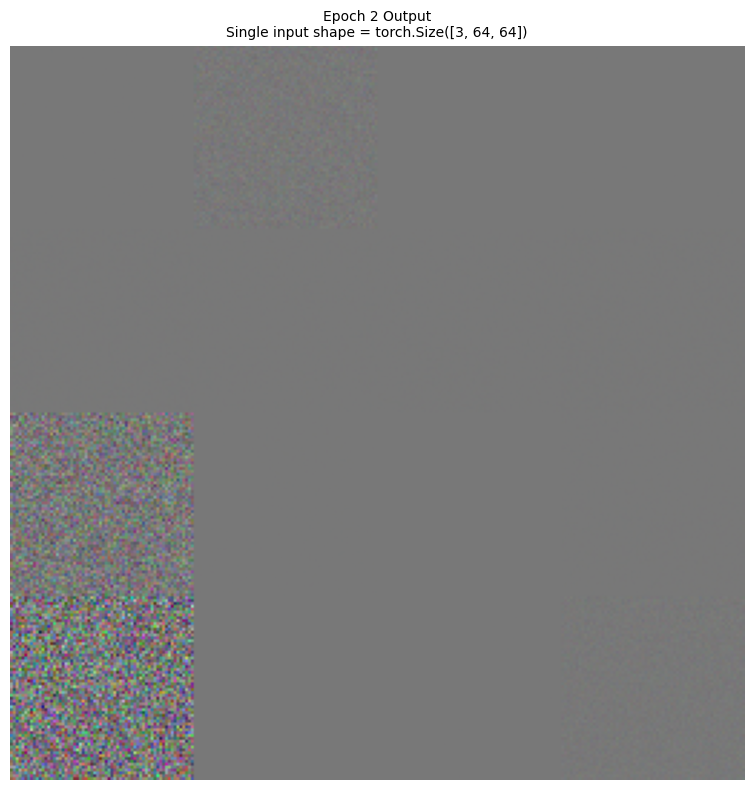
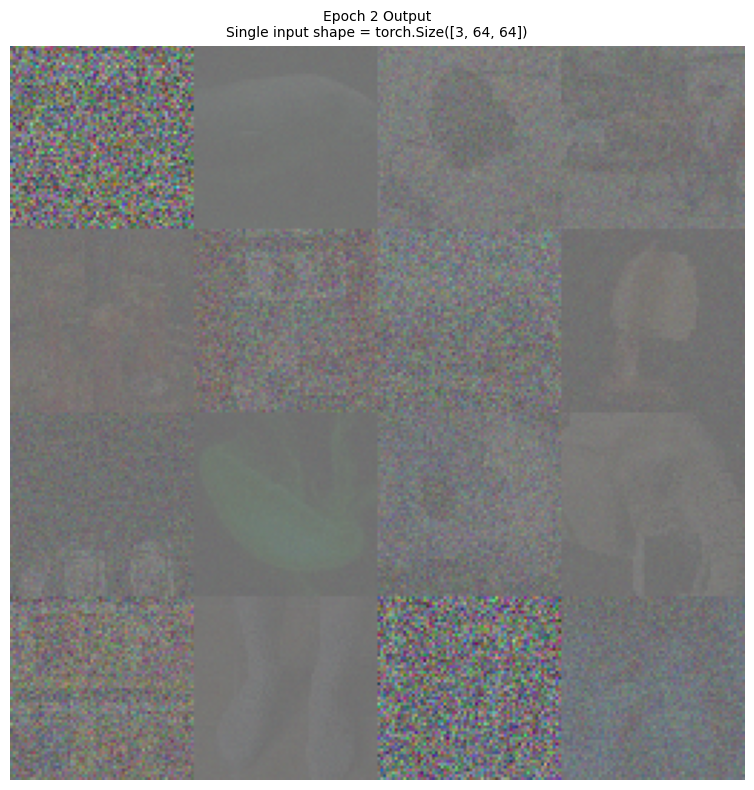
Modify DiT Training

diff --git a/dit.py b/dit.py
@@ -7,7 +7,7 @@ class Attention(nn.Module):
     def __init__(
         self,
         heads: int = 8,
-        hidden_dim: int = 1024,
+        hidden_dim: int = 512,
     ):
         super().__init__()
         self.heads = heads
@@ -35,7 +35,7 @@ class Attention(nn.Module):
 class MLP(nn.Module):
     def __init__(
         self,
-        hidden_dim: int = 1024,
+        hidden_dim: int = 512,
         intermediate_ratio: float = 3.0,
     ):
         super().__init__()
@@ -81,7 +81,6 @@ class Conditioner(nn.Module):
         return embedding
 
     def forward(self, label: torch.Tensor, timestep: torch.Tensor) -> torch.Tensor:
-        
         label = torch.where(torch.rand(label.shape, device=label.device) < self.condition_p, torch.tensor(self.num_classes, dtype=label.dtype, device=label.device), label)
         class_embedding = self.class_embedding(label)
         time_embedding = self.sinusodial_embedding(timestep)
@@ -91,7 +90,7 @@ class Conditioner(nn.Module):
 class Block(nn.Module):
     def __init__(
         self,
-        hidden_dim: int = 1024, 
+        hidden_dim: int = 512, 
         heads: int = 8,
         intermediate_ratio: float = 3.0,
     ):
@@ -110,8 +109,8 @@ class Block(nn.Module):
         rho_2 = scales[:,4*self.hidden_dim:5*self.hidden_dim]
         beta_2 = scales[:,5*self.hidden_dim:6*self.hidden_dim]
         residual = x
-        residual = self.attention(residual, alpha_1, rho_1, beta_1)
-        residual = self.mlp(residual, alpha_2, rho_2, beta_2)
+        residual = self.attention(residual, alpha_2, rho_2, beta_2)
+        residual = self.mlp(residual, alpha_1, rho_1, beta_1)
         return residual
 
 class AdaLN(nn.Module):
@@ -119,7 +118,7 @@ class AdaLN(nn.Module):
         self,
         embedding_dim: int = 256,
         hidden_dim: int = 1024,
-        intermediate_ratio: float = 3.0
+        intermediate_ratio: float = 2.0
     ):
         super().__init__()
         self.embedding_dim = embedding_dim
@@ -137,7 +136,7 @@ class DiT(nn.Module):
     def __init__(
         self,
         num_blocks: int = 12,
-        hidden_dim: int = 1024, 
+        hidden_dim: int = 512, 
         heads: int = 8,
         img_size: int = 64,
         patches: int = 4,
@@ -166,7 +165,8 @@ class DiT(nn.Module):
         self.patch_len = num_patches * num_patches
         self.pos_embeddings = nn.Embedding(self.patch_len, self.hidden_dim)
         self.post_norm = nn.LayerNorm(self.hidden_dim)
-        self.up_proj = nn.Linear(self.hidden_dim, 64 * 6)
+        self.post_linear = nn.Linear(self.hidden_dim, patches * patches * 6)
+        self.upsample = nn.ConvTranspose2d(6, 6, 4, 2, 1)
 
     
     def forward(self, z: torch.Tensor, label: torch.Tensor, t: torch.Tensor) -> torch.Tensor:
@@ -177,9 +177,12 @@ class DiT(nn.Module):
         for layer, embedding in zip(self.blocks, self.condition_blocks):
             scales = embedding(emb)
             hidden_states = layer(hidden_states, scales)
-        hidden_states = self.post_norm(hidden_states)
-        output = self.up_proj(hidden_states)
-        output = output.reshape((-1, 64, 64, 6))
-        noise = output[...,:3].transpose(1,-1)
-        sigma = output[...,3:].transpose(1,-1)
+        hidden_states = self.post_norm(hidden_states) 
+        hidden_states = self.post_linear(hidden_states) #B, 64, 1024 -> B, 64, 96
+        hidden_states = torch.reshape(hidden_states, (z.shape[0], 8, 8, 6, 6, 6))
+        hidden_states = hidden_states.permute(0, 1, 3, 2, 4, 5)
+        hidden_states  = hidden_states.reshape((-1, 6, 32, 32))
+        output = self.upsample(hidden_states)
+        noise = output[:,:3,...]
+        sigma = output[:,3:,...]
         return noise, sigma

diff --git a/train_dit.py b/train_dit.py
@@ -20,6 +20,7 @@ transform = transforms.Compose(
     [
         transforms.Resize(64),
         transforms.ToTensor(),
+        transforms.Normalize([0.5, 0.5, 0.5], [0.5, 0.5, 0.5])
     ]
 )
 
@@ -75,7 +76,7 @@ alpha_bar = alpha_bar.to(device)
 def noise(z: torch.Tensor, t: torch.Tensor) -> Tuple[torch.Tensor, torch.Tensor]:
     alpha = alpha_bar[t][:,None,None,None].to(z.device)
     noise = torch.randn_like(z).to(z.device)
-    noised_z = alpha * z + (1 - alpha) ** 0.5 * noise
+    noised_z = (alpha ** 0.5) * z + ((1 - alpha) ** 0.5) * noise
     return noise, noised_z
 
 
@@ -93,8 +94,20 @@ for epoch in range(job['epochs']):
         optimizer.zero_grad()
         if step % 100 == 0:
             print(f"Loss: {loss.item()}")
-            output = (noised_z[:16] - noise_pred[:16] * (1 - alpha_bar[t][:16,None,None,None]) ** 0.5 ) / alpha_bar[t][:16,None,None,None]
+            alpha = alpha_bar[t][:,None,None,None].to(device)
+            output = (noised_z[:16] - (1 - alpha[:16]) ** 0.5 * noise_pred[:16]) / (alpha[:16] ** 0.5)
             display_data(output, 4, f"Epoch {epoch+1} Output")
 
         if step == len(train_loader) - 1:
             print(f"Epoch {epoch+1}/{job['epochs']}")
+            if (epoch) % 20 == 0:
+                checkpoint_dir = 'checkpoints'
+                os.makedirs(checkpoint_dir, exist_ok=True)
+                checkpoint_path = os.path.join(checkpoint_dir, f'dit_epoch_{epoch+1}.pt')
+                torch.save({
+                    'epoch': epoch + 1,
+                    'model_state_dict': model.state_dict(),
+                    'optimizer_state_dict': optimizer.state_dict(),
+                    'loss': loss.item(),
+                }, checkpoint_path)
+                print(f"Saved checkpoint to {checkpoint_path}")

diff --git a/count_parameters.py b/count_parameters.py
@@ -1,0 +1,6 @@
+import torch
+from dit import DiT
+
+model = DiT()
+
+print(sum(p.numel() for p in model.parameters() if p.requires_grad))
